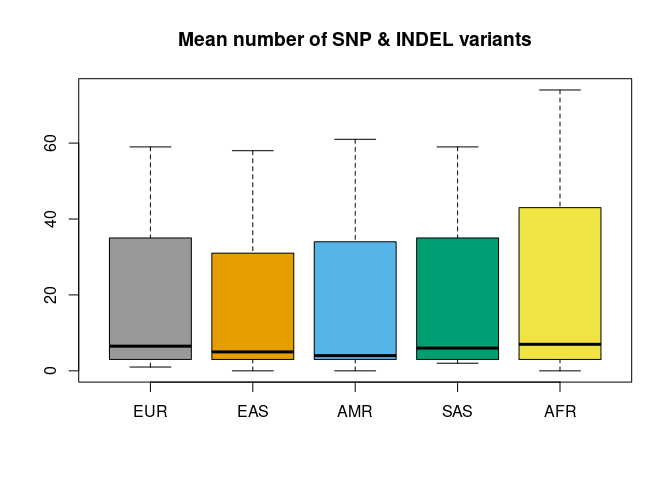
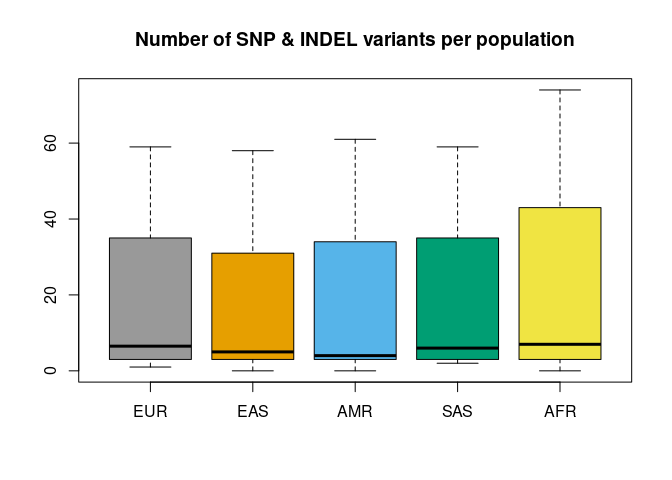
fix ci

Changed region(s): [[0.1875, 0.0625, 0.875, 0.0938]]

diff --git a/docs/index.html b/docs/index.html
@@ -128,12 +128,45 @@
 <span><span class="va">popfile</span> <span class="op">&lt;-</span> <span class="st">"https://ftp.1000genomes.ebi.ac.uk/vol1/ftp/data_collections/1000G_2504_high_coverage/20130606_g1k_3202_samples_ped_population.txt"</span></span></code></pre></div>
 </div>
 <div class="section level2">
+<h2 id="vcfcomp-compare-two-vcf-files-and-report-concordance">
+<code>vcfcomp</code>: compare two VCF files and report concordance<a class="anchor" aria-label="anchor" href="#vcfcomp-compare-two-vcf-files-and-report-concordance"></a>
+</h2>
+<p>Want to investigate the concordance between two VCF files? <code>vcfcomp</code> is the utility function you need! For example, in benchmarkings, we intend to calculate the genotype correlation between the test and the truth.</p>
+<div class="sourceCode" id="cb4"><pre class="downlit sourceCode r">
+<code class="sourceCode R"><span><span class="va">res</span> <span class="op">&lt;-</span> <span class="fu"><a href="reference/vcfcomp.html">vcfcomp</a></span><span class="op">(</span>test <span class="op">=</span> <span class="va">rawvcf</span>, truth <span class="op">=</span> <span class="va">phasedvcf</span>,</span>
+<span>               region <span class="op">=</span> <span class="st">"chr21:1-5100000"</span>, stats <span class="op">=</span> <span class="st">"r2"</span>,</span>
+<span>               formats <span class="op">=</span> <span class="fu"><a href="https://rdrr.io/r/base/c.html" class="external-link">c</a></span><span class="op">(</span><span class="st">"GT"</span>,<span class="st">"GT"</span><span class="op">)</span><span class="op">)</span></span>
+<span><span class="fu"><a href="https://rdrr.io/r/graphics/par.html" class="external-link">par</a></span><span class="op">(</span>mar<span class="op">=</span><span class="fu"><a href="https://rdrr.io/r/base/c.html" class="external-link">c</a></span><span class="op">(</span><span class="fl">5</span>,<span class="fl">5</span>,<span class="fl">2</span>,<span class="fl">2</span><span class="op">)</span>, cex.lab <span class="op">=</span> <span class="fl">2</span><span class="op">)</span></span>
+<span><span class="fu"><a href="reference/vcfplot.html">vcfplot</a></span><span class="op">(</span><span class="va">res</span>, what <span class="op">=</span> <span class="st">"r2"</span>, col <span class="op">=</span> <span class="fl">2</span>, cex <span class="op">=</span> <span class="fl">3</span>, lwd <span class="op">=</span> <span class="fl">4</span>, type <span class="op">=</span> <span class="st">"b"</span><span class="op">)</span></span>
+<span><span class="co">#&gt; input is an object with vcfcomp class</span></span></code></pre></div>
+<p><img src="reference/figures/README-r2-1.png" width="100%"></p>
+<p>Check out the <a href="https://zilong-li.github.io/vcfppR/articles/" class="external-link">vignettes</a> for more!</p>
+</div>
+<div class="section level2">
+<h2 id="vcfsummary-variants-characterization">
+<code>vcfsummary</code>: variants characterization<a class="anchor" aria-label="anchor" href="#vcfsummary-variants-characterization"></a>
+</h2>
+<p>Want to summarize variants discovered by genotype caller e.g. GATK? <code>vcfsummary</code> is the utility function you need!</p>
+<p><strong>Small variants</strong></p>
+<div class="sourceCode" id="cb5"><pre class="downlit sourceCode r">
+<code class="sourceCode R"><span><span class="va">res</span> <span class="op">&lt;-</span> <span class="fu"><a href="reference/vcfsummary.html">vcfsummary</a></span><span class="op">(</span><span class="va">rawvcf</span>,<span class="st">"chr21:10000000-10010000"</span><span class="op">)</span></span>
+<span><span class="fu"><a href="reference/vcfplot.html">vcfplot</a></span><span class="op">(</span><span class="va">res</span>, pop <span class="op">=</span> <span class="va">popfile</span>, col <span class="op">=</span> <span class="fl">1</span><span class="op">:</span><span class="fl">5</span>, main <span class="op">=</span> <span class="st">"Mean number of SNP &amp; INDEL variants"</span><span class="op">)</span></span>
+<span><span class="co">#&gt; input is an object with vcfsummary class</span></span></code></pre></div>
+<p><img src="reference/figures/README-summary_sm-1.png" width="100%"></p>
+<p><strong>Complex structure variants</strong></p>
+<div class="sourceCode" id="cb6"><pre class="downlit sourceCode r">
+<code class="sourceCode R"><span><span class="va">res</span> <span class="op">&lt;-</span> <span class="fu"><a href="reference/vcfsummary.html">vcfsummary</a></span><span class="op">(</span><span class="va">svfile</span>, svtype <span class="op">=</span> <span class="cn">TRUE</span>, region <span class="op">=</span> <span class="st">"chr20"</span><span class="op">)</span></span>
+<span><span class="fu"><a href="reference/vcfplot.html">vcfplot</a></span><span class="op">(</span><span class="va">res</span>, main <span class="op">=</span> <span class="st">"Structure Variant Counts"</span>, col <span class="op">=</span> <span class="fl">1</span><span class="op">:</span><span class="fl">7</span><span class="op">)</span></span>
+<span><span class="co">#&gt; input is an object with vcfsummary class</span></span></code></pre></div>
+<p><img src="reference/figures/README-summary_sv-1.png" width="100%"></p>
+</div>
+<div class="section level2">
 <h2 id="vcftable-read-vcf-as-tabular-data">
 <code>vcftable</code>: read VCF as tabular data<a class="anchor" aria-label="anchor" href="#vcftable-read-vcf-as-tabular-data"></a>
 </h2>
 <p><code>vcftable</code> gives you fine control over what you want to extract from VCF/BCF files.</p>
 <p><strong>Read SNP variants</strong></p>
-<div class="sourceCode" id="cb4"><pre class="downlit sourceCode r">
+<div class="sourceCode" id="cb7"><pre class="downlit sourceCode r">
 <code class="sourceCode R"><span><span class="va">res</span> <span class="op">&lt;-</span> <span class="fu"><a href="reference/vcftable.html">vcftable</a></span><span class="op">(</span><span class="va">phasedvcf</span>, <span class="st">"chr21:1-5100000"</span>, vartype <span class="op">=</span> <span class="st">"snps"</span><span class="op">)</span></span>
 <span><span class="fu"><a href="https://rdrr.io/r/utils/str.html" class="external-link">str</a></span><span class="op">(</span><span class="va">res</span><span class="op">)</span></span>
 <span><span class="co">#&gt; List of 10</span></span>
@@ -149,7 +182,7 @@
 <span><span class="co">#&gt;  $ gt     : int [1:194, 1:3202] 0 0 0 0 0 0 0 0 0 0 ...</span></span>
 <span><span class="co">#&gt;  - attr(*, "class")= chr "vcftable"</span></span></code></pre></div>
 <p><strong>Read SNP variants with PL format and drop the INFO column in the VCF/BCF</strong></p>
-<div class="sourceCode" id="cb5"><pre class="downlit sourceCode r">
+<div class="sourceCode" id="cb8"><pre class="downlit sourceCode r">
 <code class="sourceCode R"><span><span class="va">res</span> <span class="op">&lt;-</span> <span class="fu"><a href="reference/vcftable.html">vcftable</a></span><span class="op">(</span><span class="va">rawvcf</span>, <span class="st">"chr21:1-5100000"</span>, vartype <span class="op">=</span> <span class="st">"snps"</span>, format <span class="op">=</span> <span class="st">"PL"</span>, info <span class="op">=</span> <span class="cn">FALSE</span><span class="op">)</span></span>
 <span><span class="fu"><a href="https://rdrr.io/r/utils/str.html" class="external-link">str</a></span><span class="op">(</span><span class="va">res</span><span class="op">)</span></span>
 <span><span class="co">#&gt; List of 10</span></span>
@@ -165,7 +198,7 @@
 <span><span class="co">#&gt;  $ PL     : int [1:1383, 1:9606] NA 64 64 0 0 0 0 0 0 0 ...</span></span>
 <span><span class="co">#&gt;  - attr(*, "class")= chr "vcftable"</span></span></code></pre></div>
 <p><strong>Read INDEL variants with DP format in the VCF/BCF</strong></p>
-<div class="sourceCode" id="cb6"><pre class="downlit sourceCode r">
+<div class="sourceCode" id="cb9"><pre class="downlit sourceCode r">
 <code class="sourceCode R"><span><span class="va">res</span> <span class="op">&lt;-</span> <span class="fu"><a href="reference/vcftable.html">vcftable</a></span><span class="op">(</span><span class="va">rawvcf</span>, <span class="st">"chr21:1-5100000"</span>, vartype <span class="op">=</span> <span class="st">"indels"</span>, format <span class="op">=</span> <span class="st">"DP"</span><span class="op">)</span></span>
 <span><span class="fu"><a href="https://rdrr.io/r/utils/str.html" class="external-link">str</a></span><span class="op">(</span><span class="va">res</span><span class="op">)</span></span>
 <span><span class="co">#&gt; List of 10</span></span>
@@ -180,39 +213,6 @@
 <span><span class="co">#&gt;  $ info   : chr [1:195] "AC=82;AF=0.0136439;AN=6010;BaseQRankSum=-0.55;ClippingRankSum=0;DP=18067;FS=0;InbreedingCoeff=0.0664;MLEAC=76;M"| __truncated__ "AC=19;AF=0.0030586;AN=6212;BaseQRankSum=0.358;ClippingRankSum=-0.594;DP=30725;FS=44.58;InbreedingCoeff=-1.1608;"| __truncated__ "AC=1;AF=0.00015753;AN=6348;BaseQRankSum=-1.793;ClippingRankSum=-0.48;DP=32486;FS=27.337;InbreedingCoeff=-0.0212"| __truncated__ "AC=2;AF=0.000314268;AN=6364;BaseQRankSum=1.59;ClippingRankSum=0.358;DP=44916;FS=0;InbreedingCoeff=-0.0092;MLEAC"| __truncated__ ...</span></span>
 <span><span class="co">#&gt;  $ DP     : int [1:195, 1:3202] 3 15 13 16 19 20 5 34 29 24 ...</span></span>
 <span><span class="co">#&gt;  - attr(*, "class")= chr "vcftable"</span></span></code></pre></div>
-</div>
-<div class="section level2">
-<h2 id="vcfcomp-compare-two-vcf-files-and-report-concordance">
-<code>vcfcomp</code>: compare two VCF files and report concordance<a class="anchor" aria-label="anchor" href="#vcfcomp-compare-two-vcf-files-and-report-concordance"></a>
-</h2>
-<p>Want to investigate the concordance between two VCF files? <code>vcfcomp</code> is the utility function you need! For example, in benchmarkings, we intend to calculate the genotype correlation between the test and the truth.</p>
-<div class="sourceCode" id="cb7"><pre class="downlit sourceCode r">
-<code class="sourceCode R"><span><span class="va">res</span> <span class="op">&lt;-</span> <span class="fu"><a href="reference/vcfcomp.html">vcfcomp</a></span><span class="op">(</span>test <span class="op">=</span> <span class="va">rawvcf</span>, truth <span class="op">=</span> <span class="va">phasedvcf</span>,</span>
-<span>               region <span class="op">=</span> <span class="st">"chr21:1-5100000"</span>, stats <span class="op">=</span> <span class="st">"r2"</span>,</span>
-<span>               formats <span class="op">=</span> <span class="fu"><a href="https://rdrr.io/r/base/c.html" class="external-link">c</a></span><span class="op">(</span><span class="st">"GT"</span>,<span class="st">"GT"</span><span class="op">)</span><span class="op">)</span></span>
-<span><span class="fu"><a href="https://rdrr.io/r/graphics/par.html" class="external-link">par</a></span><span class="op">(</span>mar<span class="op">=</span><span class="fu"><a href="https://rdrr.io/r/base/c.html" class="external-link">c</a></span><span class="op">(</span><span class="fl">5</span>,<span class="fl">5</span>,<span class="fl">2</span>,<span class="fl">2</span><span class="op">)</span>, cex.lab <span class="op">=</span> <span class="fl">2</span><span class="op">)</span></span>
-<span><span class="fu"><a href="reference/vcfplot.html">vcfplot</a></span><span class="op">(</span><span class="va">res</span>, what <span class="op">=</span> <span class="st">"r2"</span>, col <span class="op">=</span> <span class="fl">2</span>, cex <span class="op">=</span> <span class="fl">3</span>, lwd <span class="op">=</span> <span class="fl">4</span>, type <span class="op">=</span> <span class="st">"b"</span><span class="op">)</span></span>
-<span><span class="co">#&gt; Object is vcfcomp which hassamplesr2</span></span></code></pre></div>
-<p><img src="reference/figures/README-r2-1.png" width="100%"></p>
-<p>Check out the <a href="https://zilong-li.github.io/vcfppR/articles/" class="external-link">vignettes</a> for more!</p>
-</div>
-<div class="section level2">
-<h2 id="vcfsummary-variants-characterization">
-<code>vcfsummary</code>: variants characterization<a class="anchor" aria-label="anchor" href="#vcfsummary-variants-characterization"></a>
-</h2>
-<p>Want to summarize variants discovered by genotype caller e.g. GATK? <code>vcfsummary</code> is the utility function you need!</p>
-<p><strong>Small variants</strong></p>
-<div class="sourceCode" id="cb8"><pre class="downlit sourceCode r">
-<code class="sourceCode R"><span><span class="va">res</span> <span class="op">&lt;-</span> <span class="fu"><a href="reference/vcfsummary.html">vcfsummary</a></span><span class="op">(</span><span class="va">rawvcf</span>,<span class="st">"chr21:10000000-10010000"</span><span class="op">)</span></span>
-<span><span class="fu"><a href="reference/vcfplot.html">vcfplot</a></span><span class="op">(</span><span class="va">res</span>, pop <span class="op">=</span> <span class="va">popfile</span>, col <span class="op">=</span> <span class="fl">1</span><span class="op">:</span><span class="fl">5</span>, main <span class="op">=</span> <span class="st">"Mean number of SNP &amp; INDEL variants"</span><span class="op">)</span></span>
-<span><span class="co">#&gt; Object is vcfsummary</span></span></code></pre></div>
-<p><img src="reference/figures/README-summary_sm-1.png" width="100%"></p>
-<p><strong>Complex structure variants</strong></p>
-<div class="sourceCode" id="cb9"><pre class="downlit sourceCode r">
-<code class="sourceCode R"><span><span class="va">res</span> <span class="op">&lt;-</span> <span class="fu"><a href="reference/vcfsummary.html">vcfsummary</a></span><span class="op">(</span><span class="va">svfile</span>, svtype <span class="op">=</span> <span class="cn">TRUE</span>, region <span class="op">=</span> <span class="st">"chr20"</span><span class="op">)</span></span>
-<span><span class="fu"><a href="reference/vcfplot.html">vcfplot</a></span><span class="op">(</span><span class="va">res</span>, main <span class="op">=</span> <span class="st">"Structure Variant Counts"</span>, col <span class="op">=</span> <span class="fl">1</span><span class="op">:</span><span class="fl">7</span><span class="op">)</span></span>
-<span><span class="co">#&gt; Object is vcfsummary</span></span></code></pre></div>
-<p><img src="reference/figures/README-summary_sv-1.png" width="100%"></p>
 </div>
 <div class="section level2">
 <h2 id="r-api-of-vcfpph">R API of vcfpp.h<a class="anchor" aria-label="anchor" href="#r-api-of-vcfpph"></a>

diff --git a/docs/reference/vcfplot.html b/docs/reference/vcfplot.html
@@ -88,6 +88,10 @@
 <dt>variant</dt>
 <dd><p>which type of variant are desired</p></dd>
 
+
+<dt>...</dt>
+<dd><p>parameters passed to graphics</p></dd>
+
 </dl></div>
 
   </main><aside class="col-md-3"><nav id="toc"><h2>On this page</h2>

diff --git a/README.md b/README.md
@@ -76,6 +76,51 @@ svfile <- "https://ftp.1000genomes.ebi.ac.uk/vol1/ftp/data_collections/1000G_250
 popfile <- "https://ftp.1000genomes.ebi.ac.uk/vol1/ftp/data_collections/1000G_2504_high_coverage/20130606_g1k_3202_samples_ped_population.txt"
 ```
 
+## `vcfcomp`: compare two VCF files and report concordance
+
+Want to investigate the concordance between two VCF files? `vcfcomp` is
+the utility function you need\! For example, in benchmarkings, we intend
+to calculate the genotype correlation between the test and the truth.
+
+``` r
+res <- vcfcomp(test = rawvcf, truth = phasedvcf,
+               region = "chr21:1-5100000", stats = "r2",
+               formats = c("GT","GT"))
+par(mar=c(5,5,2,2), cex.lab = 2)
+vcfplot(res, what = "r2", col = 2, cex = 3, lwd = 4, type = "b")
+#> input is an object with vcfcomp class
+```
+
+<img src="man/figures/README-r2-1.png" width="100%" />
+
+Check out the [vignettes](https://zilong-li.github.io/vcfppR/articles/)
+for more\!
+
+## `vcfsummary`: variants characterization
+
+Want to summarize variants discovered by genotype caller e.g. GATK?
+`vcfsummary` is the utility function you need\!
+
+**Small variants**
+
+``` r
+res <- vcfsummary(rawvcf,"chr21:10000000-10010000")
+vcfplot(res, pop = popfile, col = 1:5, main = "Number of SNP & INDEL variants per population")
+#> input is an object with vcfsummary class
+```
+
+<img src="man/figures/README-summary_sm-1.png" width="100%" />
+
+**Complex structure variants**
+
+``` r
+res <- vcfsummary(svfile, svtype = TRUE, region = "chr20")
+vcfplot(res, main = "Structure Variant Counts", col = 1:7)
+#> input is an object with vcfsummary class
+```
+
+<img src="man/figures/README-summary_sv-1.png" width="100%" />
+
 ## `vcftable`: read VCF as tabular data
 
 `vcftable` gives you fine control over what you want to extract from
@@ -138,51 +183,6 @@ str(res)
 #>  $ DP     : int [1:195, 1:3202] 3 15 13 16 19 20 5 34 29 24 ...
 #>  - attr(*, "class")= chr "vcftable"
 ```
-
-## `vcfcomp`: compare two VCF files and report concordance
-
-Want to investigate the concordance between two VCF files? `vcfcomp` is
-the utility function you need\! For example, in benchmarkings, we intend
-to calculate the genotype correlation between the test and the truth.
-
-``` r
-res <- vcfcomp(test = rawvcf, truth = phasedvcf,
-               region = "chr21:1-5100000", stats = "r2",
-               formats = c("GT","GT"))
-par(mar=c(5,5,2,2), cex.lab = 2)
-vcfplot(res, what = "r2", col = 2, cex = 3, lwd = 4, type = "b")
-#> input is an object with vcfcomp class
-```
-
-<img src="man/figures/README-r2-1.png" width="100%" />
-
-Check out the [vignettes](https://zilong-li.github.io/vcfppR/articles/)
-for more\!
-
-## `vcfsummary`: variants characterization
-
-Want to summarize variants discovered by genotype caller e.g. GATK?
-`vcfsummary` is the utility function you need\!
-
-**Small variants**
-
-``` r
-res <- vcfsummary(rawvcf,"chr21:10000000-10010000")
-vcfplot(res, pop = popfile, col = 1:5, main = "Mean number of SNP & INDEL variants")
-#> input is an object with vcfsummary class
-```
-
-<img src="man/figures/README-summary_sm-1.png" width="100%" />
-
-**Complex structure variants**
-
-``` r
-res <- vcfsummary(svfile, svtype = TRUE, region = "chr20")
-vcfplot(res, main = "Structure Variant Counts", col = 1:7)
-#> input is an object with vcfsummary class
-```
-
-<img src="man/figures/README-summary_sv-1.png" width="100%" />
 
 ## R API of vcfpp.h
 
